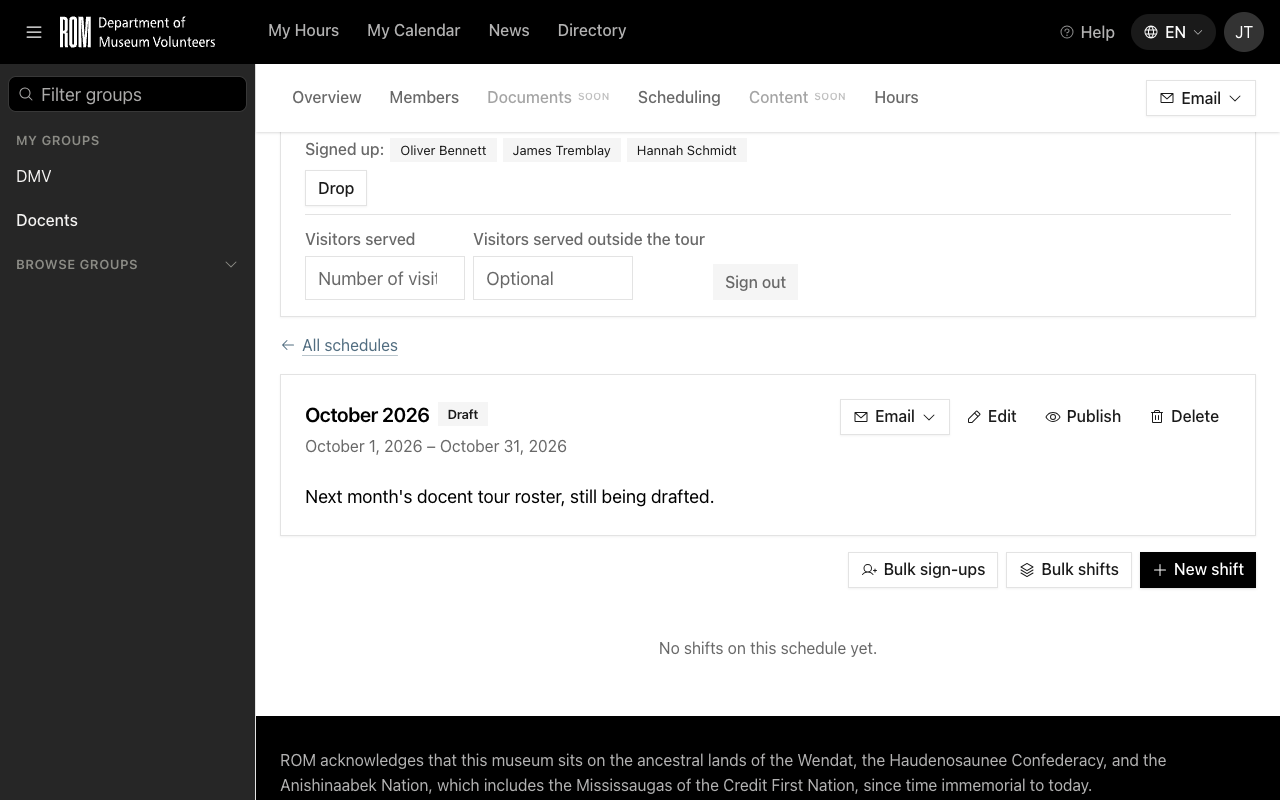
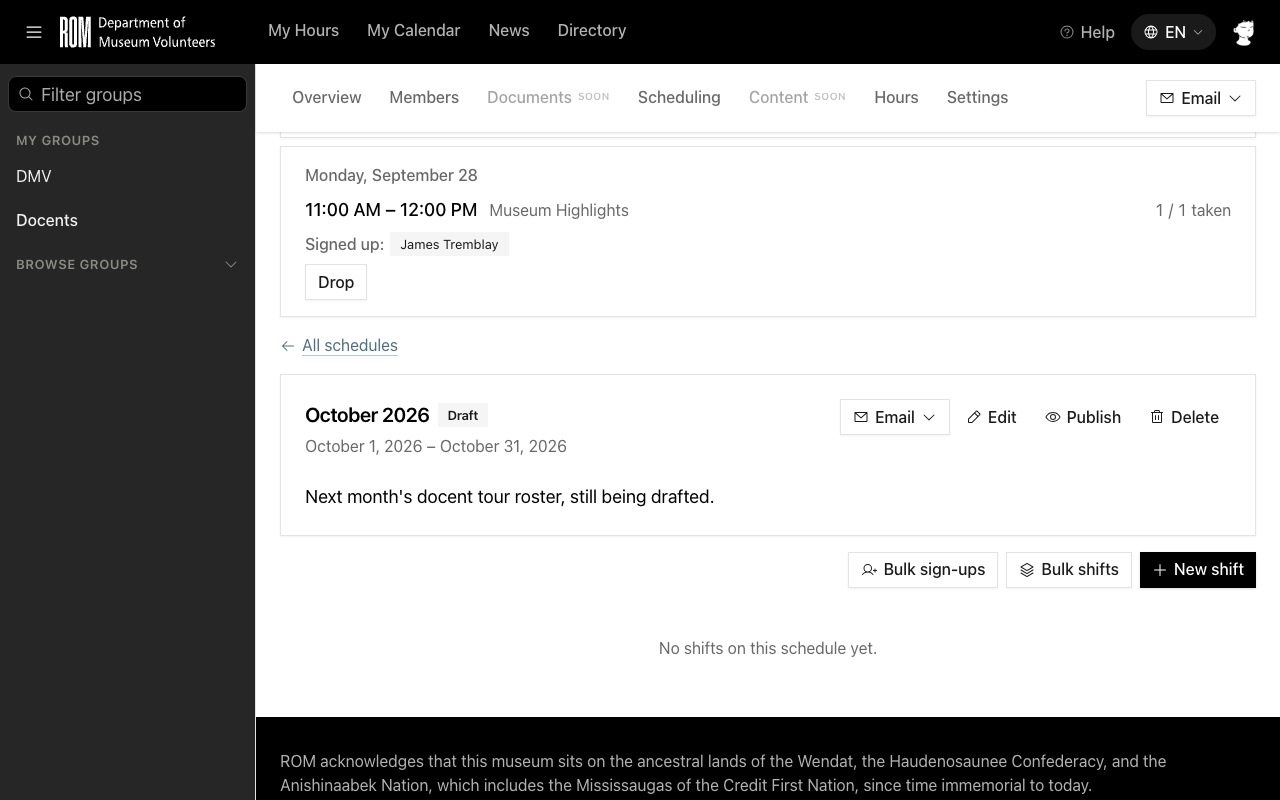
docs(help): reshoot the scheduling screenshots after the Docents roster reseed (#569)
Reshoot the eleven scheduling articles that carry shots, plus shot 04 of
group-page-tabs. The shots now show the real Docents roster: one-hour,
one-seat tours labelled Museum Highlights and Gallery/Theme, and no
"Recent shifts" Schedule. The other group-page-tabs shots pick up the
new avatar. The reminders article has no shots, so it is unchanged.

Two runner fixes came out of the pass:

- login() clears localStorage. The browser daemon kept a "calendar"
  view choice from an earlier session, so every Schedule opened in the
  Calendar view and the agenda helpers found no shift cards.
- run.sh expands the step list only when it has entries. macOS bash 3.2
  treats an empty array as unbound under `set -u`, so the reminders
  script (no steps) crashed.

Closes #569

diff --git a/resources/help/screenshot-runner/page-helpers.js b/resources/help/screenshot-runner/page-helpers.js
@@ -32,8 +32,11 @@
     // every article after the first would silently shoot as that Persona. Prime the
     // session so Laravel sets the XSRF-TOKEN cookie (logout regenerates it), then POST
     // the credentials. The 302 to the dashboard is followed, so an ok response means we
-    // hold a session cookie.
+    // hold a session cookie. The daemon keeps localStorage too, so a view choice a
+    // previous run left behind (the Schedule's Agenda/Calendar toggle) is cleared, and
+    // every run shoots the default chrome.
     async function login(email, password) {
+        localStorage.clear();
         await fetch('/login', { credentials: 'same-origin' });
         await fetch('/logout', { method: 'POST', credentials: 'same-origin', headers: csrfHeaders() });
         await fetch('/login', { credentials: 'same-origin' });
